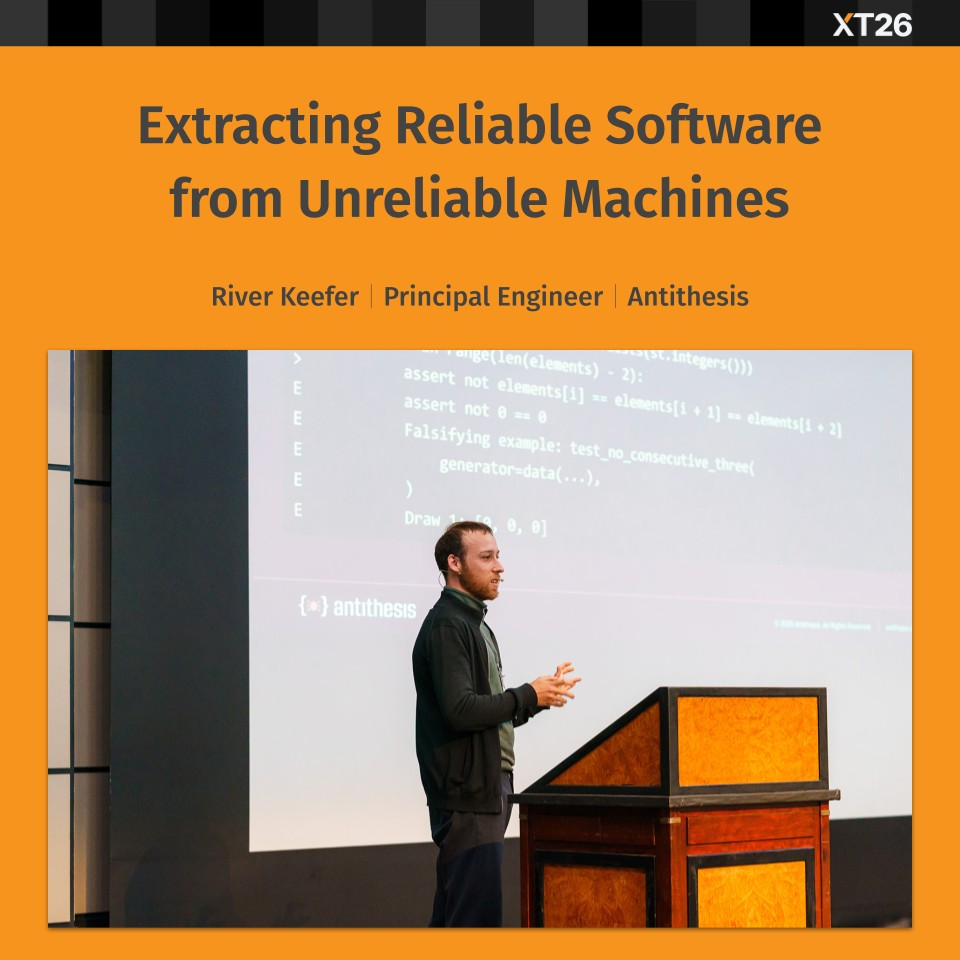
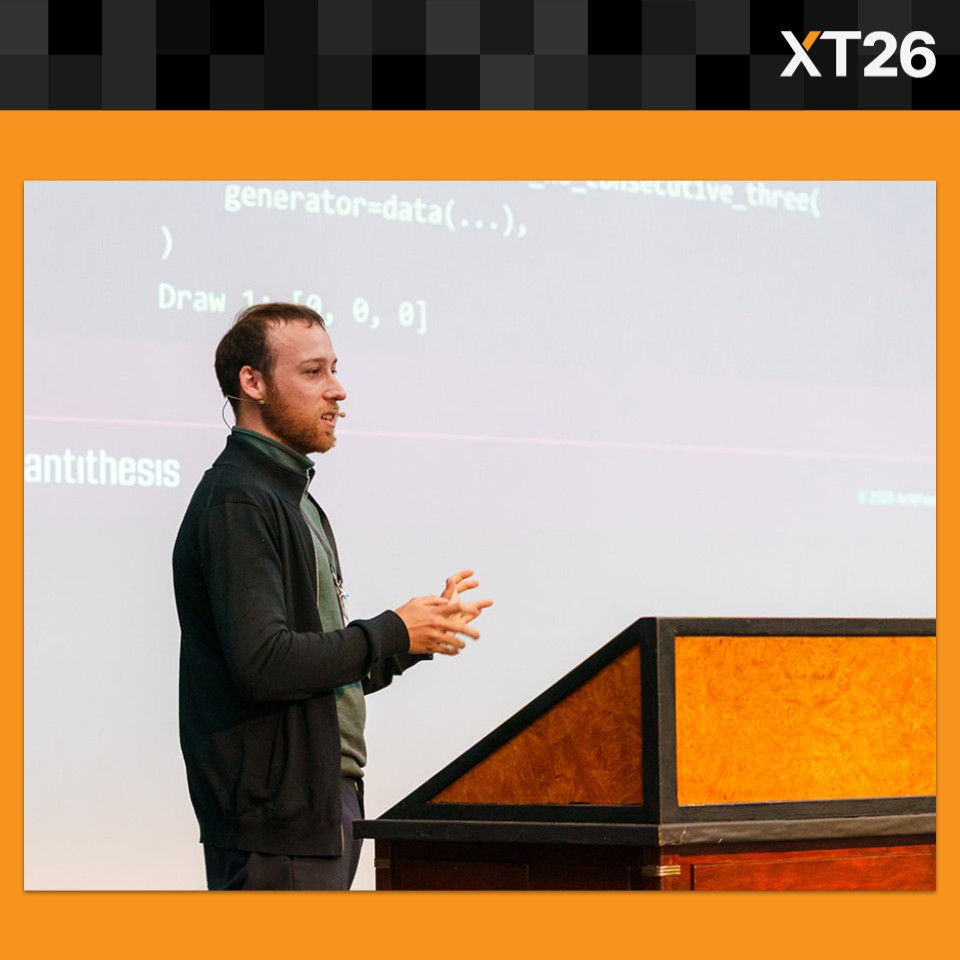
Update River Keefer post title and hero image

diff --git a/src/pages/blog/xt26-river-keefer-reliable-software-llm-code.md b/src/pages/blog/xt26-river-keefer-reliable-software-llm-code.md
@@ -1,6 +1,6 @@
 ---
 author: 'dan'
-title: 'XT26 Talks: Extracting Reliable Software From Unreliable Machines'
+title: 'XT26 Talks: Extracting Reliable Software From Unreliable Machines – River Keefer, Antithesis'
 description: 'Reflecting on River Keefer’s XT26 talk on property-based testing, and what reliability looks like when the unreliable component is the one writing your code.'
 category: 'conference'
 layout: '../../layouts/BlogPost.astro'
